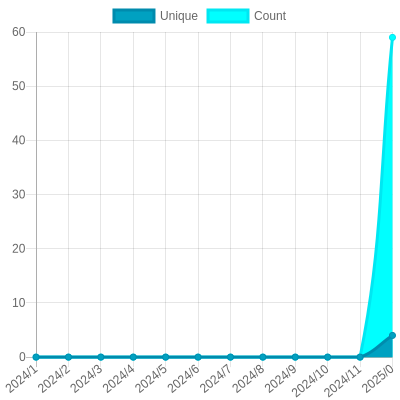
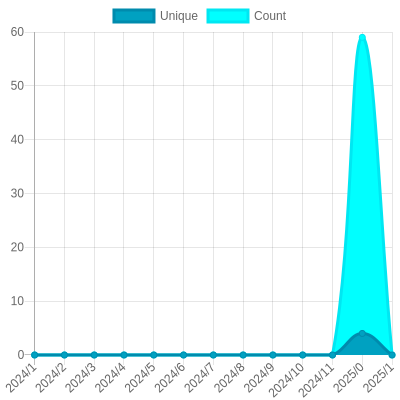
Update views

Changed region(s): [[0.03, 0.09, 0.99, 1.0], [0.03, 0.06, 0.06, 0.09]]

diff --git a/README.md b/README.md
@@ -26,7 +26,7 @@ The project created and maintained by [gayanvoice](https://github.com/gayanvoice
 			</a>
 		</td>
 		<td>
-			2024/1/30 1:07 AM UTC
+			2024/1/31 1:08 AM UTC
 		</td>
 		<td>
 			5
@@ -37,7 +37,7 @@ The project created and maintained by [gayanvoice](https://github.com/gayanvoice
 	</tr>
 </table>
 
-<small><i>Last updated on 2024/2/1 6:19 PM UTC</i></small>
+<small><i>Last updated on 2024/2/2 1:07 AM UTC</i></small>
 
 ## ✂Copy and 📋 Paste
 ### Total Views Badge

diff --git a/readme/746860989/year.md b/readme/746860989/year.md
@@ -20,6 +20,17 @@
 	</tr>
 	<tr>
 		<td>
+			<code>2024/2/1</code>
+		</td>
+		<td>
+			<code>0</code>
+		</td>
+		<td>
+			<code>0</code>
+		</td>
+	</tr>
+	<tr>
+		<td>
 			<code>2024/1/1</code>
 		</td>
 		<td>
@@ -153,7 +164,7 @@
 </table>
 
 </details>
-<small><i>Last updated on 2024/2/1 6:18 PM UTC</i></small>
+<small><i>Last updated on 2024/2/2 1:07 AM UTC</i></small>
 
 ## ✂Copy and 📋 Paste
 ### SVG Badge
